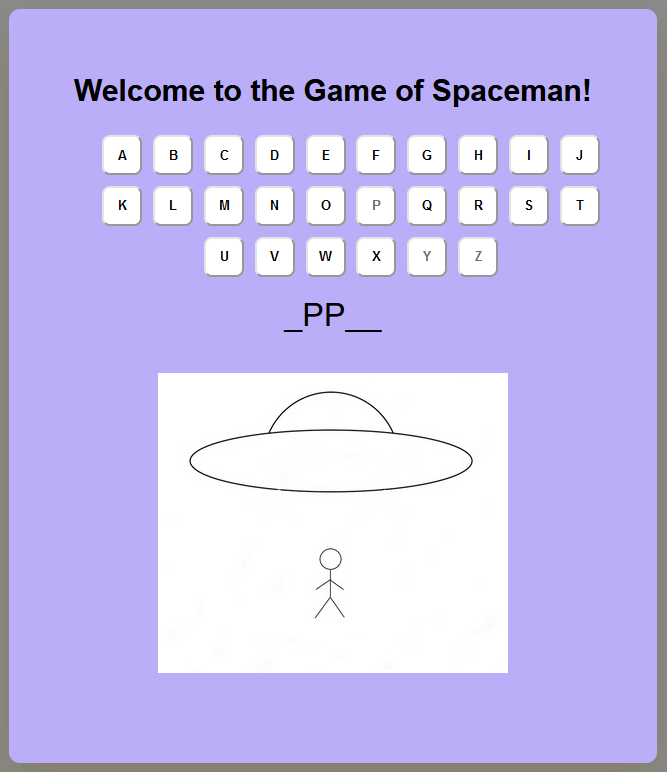
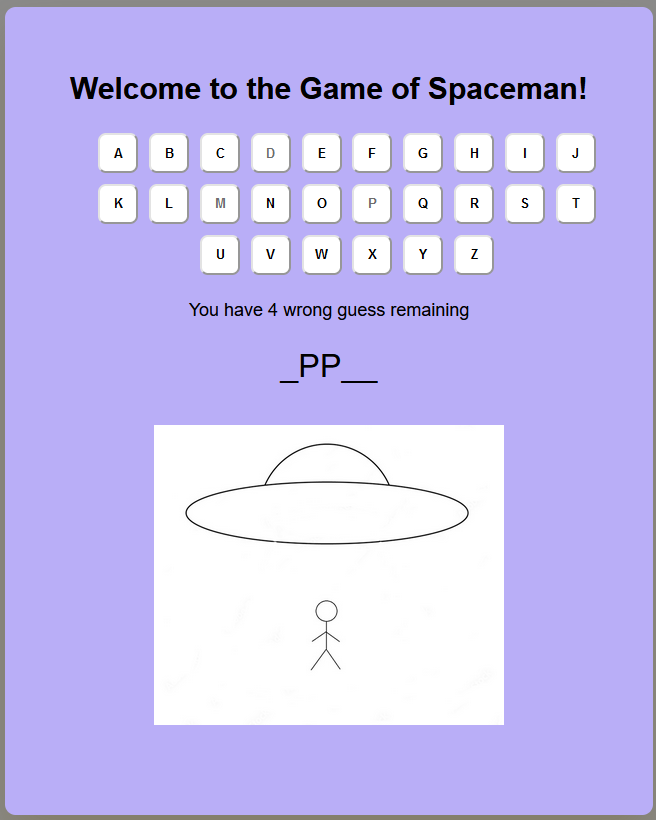
icebox update 1

diff --git a/js/main.js b/js/main.js
@@ -8,10 +8,12 @@ const canvas = document.getElementById("canvas");
 const resultText = document.getElementById("result-text");
 const wordInput = document.getElementById("word-input");
 const img = document.getElementById("ufo");
+const guessM = document.getElementById("guesses");
 // variables used to track the state of the game
-let winC=0;
-let loseC=0;
+let winC;
+let loseC;
 
+let guessC;
 let chosenWord = '';
 
 //Block all the Buttons
@@ -50,12 +52,14 @@ const generateWord = () => {
 const Init = () => {
   winC = 0;
   loseC = 0;
+  guessC = 6;
   //initially erase all content and hide letteres and new game button
   scrambleSection.innerHTML = "";
   letterContainer.classList.add("hide");
   newGameContainer.classList.add("hide");
   newGameButton.classList.add("hide");
   resultText.classList.add("hide");
+  guessM.classList.add("hide");
   letterContainer.innerHTML = "";
   //for creating letter buttons
   for (let i = 65; i < 91; i++) {
@@ -87,6 +91,10 @@ const Init = () => {
       } else {
         //lose count
         loseC += 1;
+        //update amount of guesses left and message
+        guessC -= 1;
+        guessM.innerHTML = `<p>You have <span>${guessC}</span> wrong guess remaining</p>`;
+        guessM.classList.remove("hide");
         //for updating images
         img.src = `imgs/spaceman-0${loseC}.jpg`;
         //lose condition and message

diff --git a/index.html b/index.html
@@ -18,6 +18,7 @@
             </form>
         </div>
         <div id="letter-container" class="letter-container hide"></div>
+        <div id="guesses"></div>
         <div id="scramble-section"></div>
         <img id="ufo" height="300" width="350" src="imgs/spaceman-00.jpg">
         <div id="new-game-container">

diff --git a/README.md b/README.md
@@ -89,6 +89,8 @@ A screenshot of your app's landing page and any other screenshots of interest.
 
 ### Upcoming Features
 
+- [X] Add functionality displaying guesses left
+
 - [ ] Add image space background instead of solid color
 
 - [ ] Add hint funtionality so player1 can say what type of word it is
